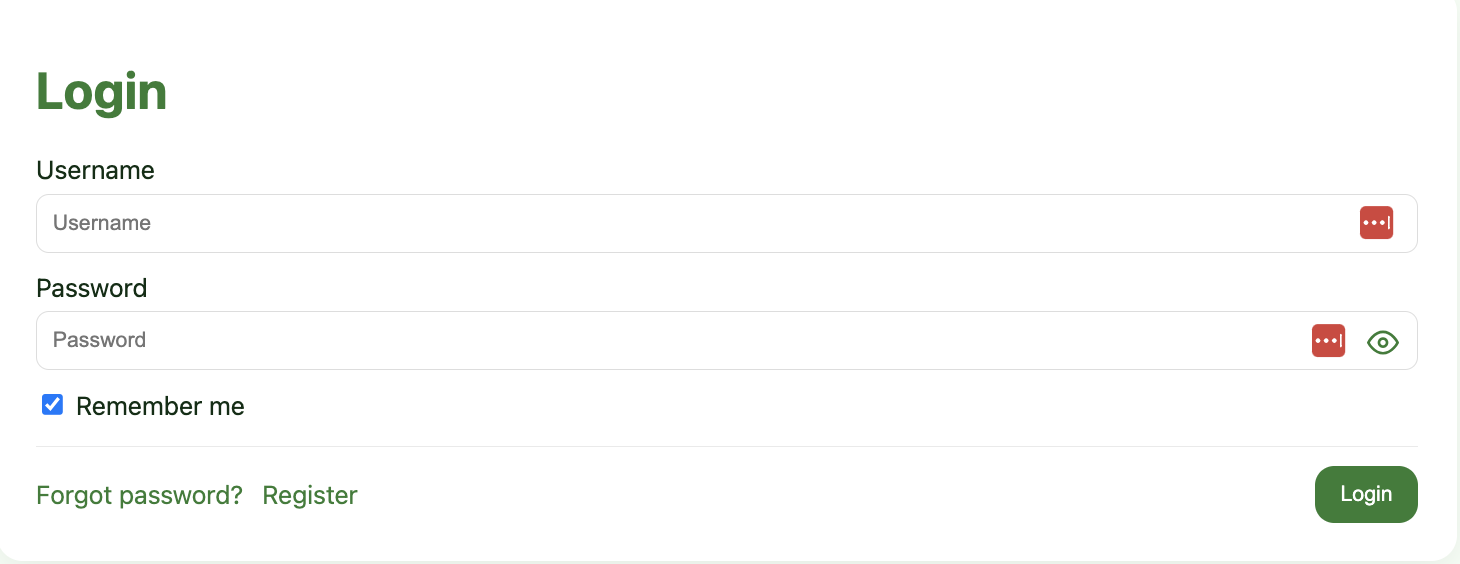
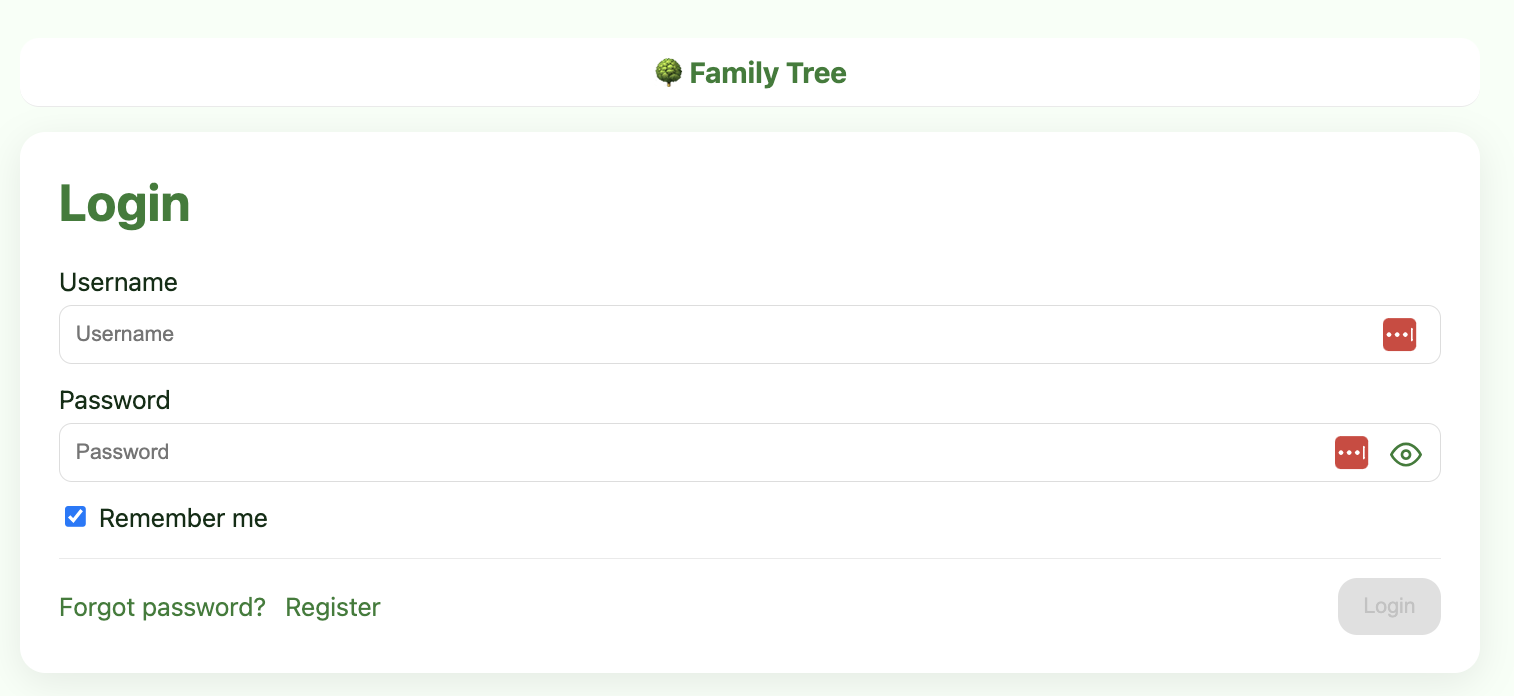
Update Screenshots in Readme

diff --git a/backend/coverage_badge.py b/backend/coverage_badge.py
@@ -1,0 +1,70 @@
+from __future__ import annotations
+
+import os
+import xml.etree.ElementTree as ET
+
+
+def color_for(pct: float) -> str:
+    if pct >= 90:
+        return "#4c1"  # bright green
+    if pct >= 80:
+        return "#97CA00"  # green
+    if pct >= 70:
+        return "#dfb317"  # yellow
+    if pct >= 60:
+        return "#fe7d37"  # orange
+    return "#e05d44"  # red
+
+
+def make_badge(pct: float) -> str:
+    # Simple SVG badge similar to shields.io style
+    label = "coverage"
+    pct_text = f"{int(round(pct))}%"
+    color = color_for(pct)
+    # widths are rough; text length affects ideal width
+    left_w = 70
+    right_w = 60
+    total_w = left_w + right_w
+    return f"""
+<svg xmlns=\"http://www.w3.org/2000/svg\" width=\"{total_w}\" height=\"20\">
+  <linearGradient id=\"s\" x2=\"0\" y2=\"100%\">
+    <stop offset=\"0\" stop-color=\"#fff\" stop-opacity=\".7\"/>
+    <stop offset=\".1\" stop-opacity=\".1\"/>
+    <stop offset=\".9\" stop-opacity=\".3\"/>
+    <stop offset=\"1\" stop-opacity=\".5\"/>
+  </linearGradient>
+  <mask id=\"m\">
+    <rect width=\"{total_w}\" height=\"20\" rx=\"3\" fill=\"#fff\"/>
+  </mask>
+  <g mask=\"url(#m)\">
+    <rect width=\"{left_w}\" height=\"20\" fill=\"#555\"/>
+    <rect x=\"{left_w}\" width=\"{right_w}\" height=\"20\" fill=\"{color}\"/>
+    <rect width=\"{total_w}\" height=\"20\" fill=\"url(#s)\"/>
+  </g>
+  <g fill=\"#fff\" text-anchor=\"middle\" font-family=\"DejaVu Sans,Verdana,Geneva,sans-serif\" font-size=\"11\">
+    <text x=\"{left_w/2}\" y=\"14\">{label}</text>
+    <text x=\"{left_w + right_w/2}\" y=\"14\">{pct_text}</text>
+  </g>
+</svg>
+""".strip()
+
+
+def main():
+    xml_path = os.path.join(os.path.dirname(__file__), "coverage.xml")
+    if not os.path.exists(xml_path):
+        raise SystemExit("coverage.xml not found. Run pytest with --cov-report=xml first.")
+    tree = ET.parse(xml_path)
+    root = tree.getroot()
+    # coverage.py xml has attributes: lines-valid, lines-covered
+    lines_valid = float(root.attrib.get("lines-valid", 0) or 0)
+    lines_covered = float(root.attrib.get("lines-covered", 0) or 0)
+    pct = 0.0 if lines_valid == 0 else (lines_covered / lines_valid) * 100.0
+    svg = make_badge(pct)
+    out_path = os.path.join(os.path.dirname(__file__), "coverage.svg")
+    with open(out_path, "w", encoding="utf-8") as f:
+        f.write(svg)
+    print(f"Wrote {out_path} at {pct:.1f}%")
+
+
+if __name__ == "__main__":
+    main()

diff --git a/README.md b/README.md
@@ -366,13 +366,21 @@ This starter is intentionally minimal but complete. Extend as needed.
 
 ### Login
 ![Login](frontend/public/screenshots/login.png)
+
 ### Tree
 ![Tree](frontend/public/screenshots/tree.png)
-### Member Editor
-![Member Editor](frontend/public/screenshots/member-editor.png)
 
-### Invites
-![Invites](frontend/public/screenshots/invites.png)
+### Add Member
+![Add Member](frontend/public/screenshots/add-member.png)
+
+### Edit Member
+![Edit Member](frontend/public/screenshots/edit-member.png)
+
+### All Invites
+![All Invites](frontend/public/screenshots/invites.png)
+
+### Available Invites
+![Available Invites](frontend/public/screenshots/available-invites.png)
 
 
 ## Test Coverage
